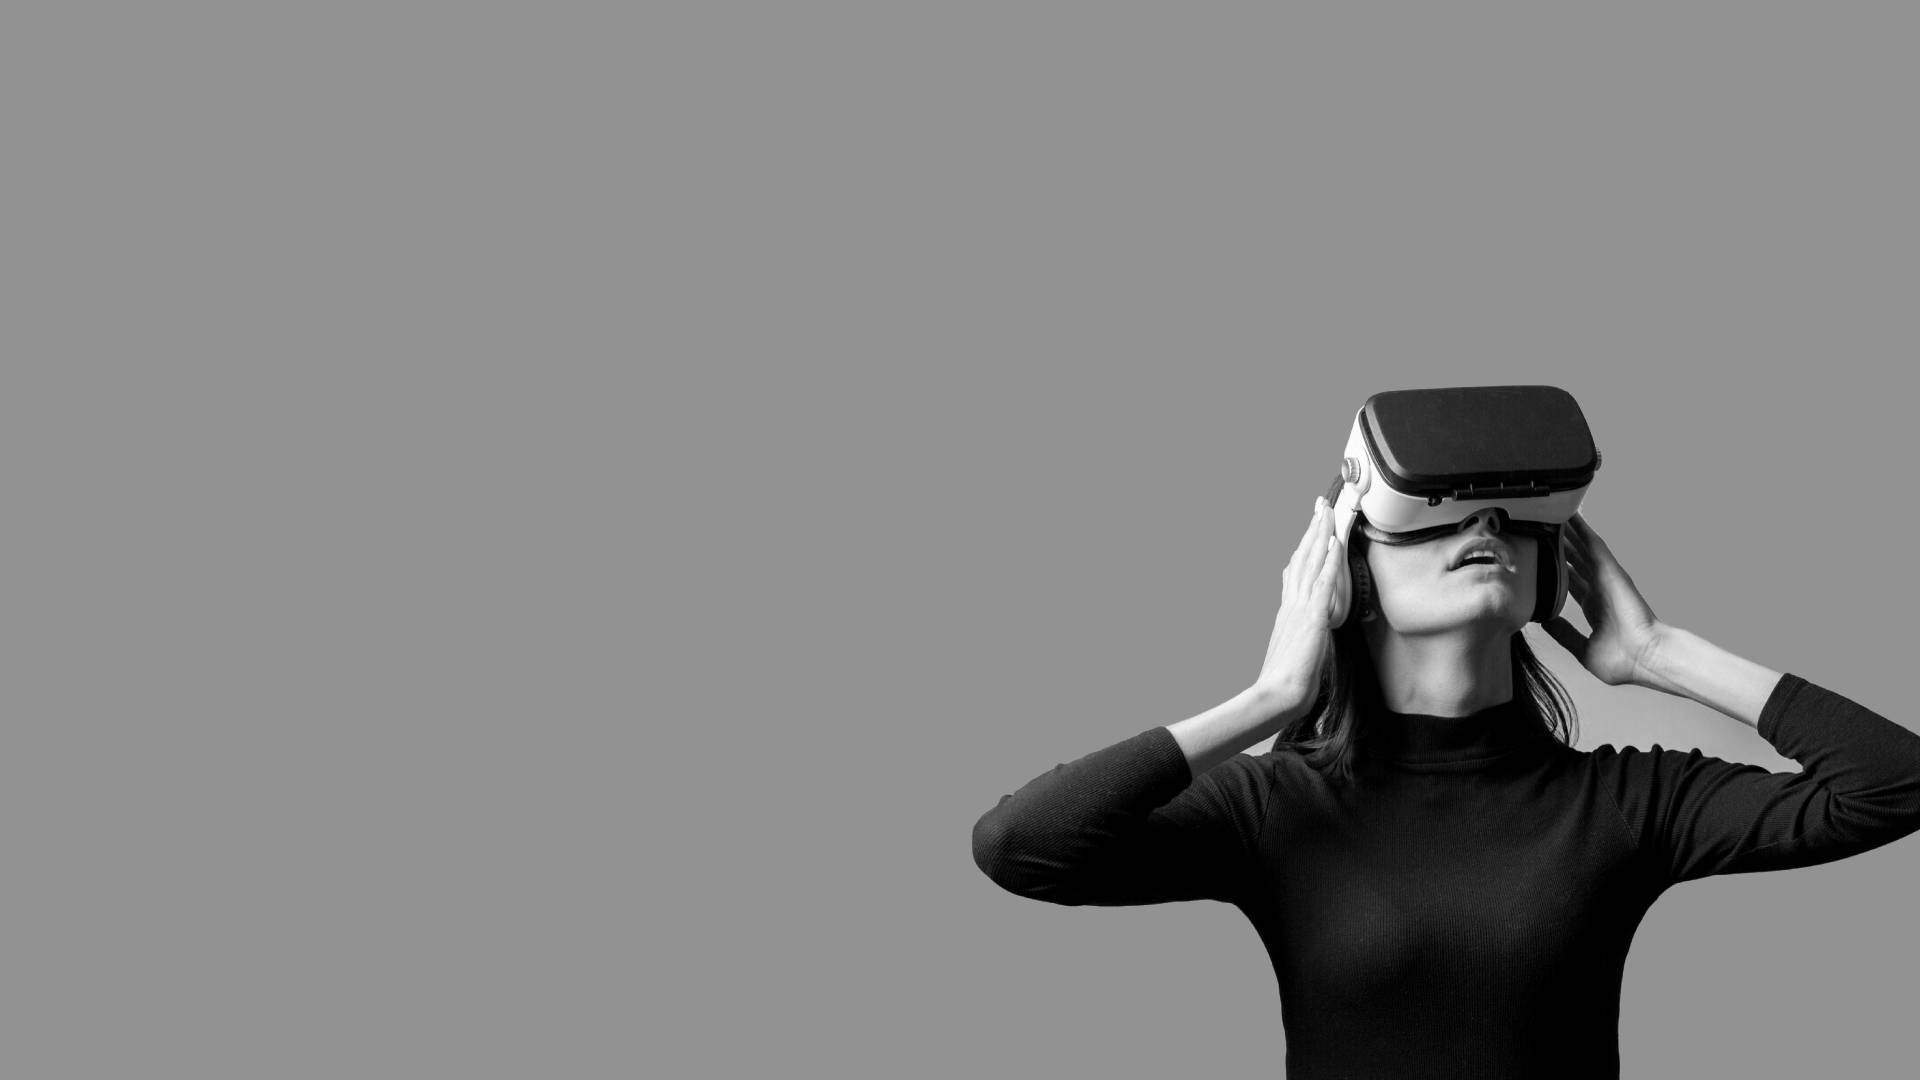
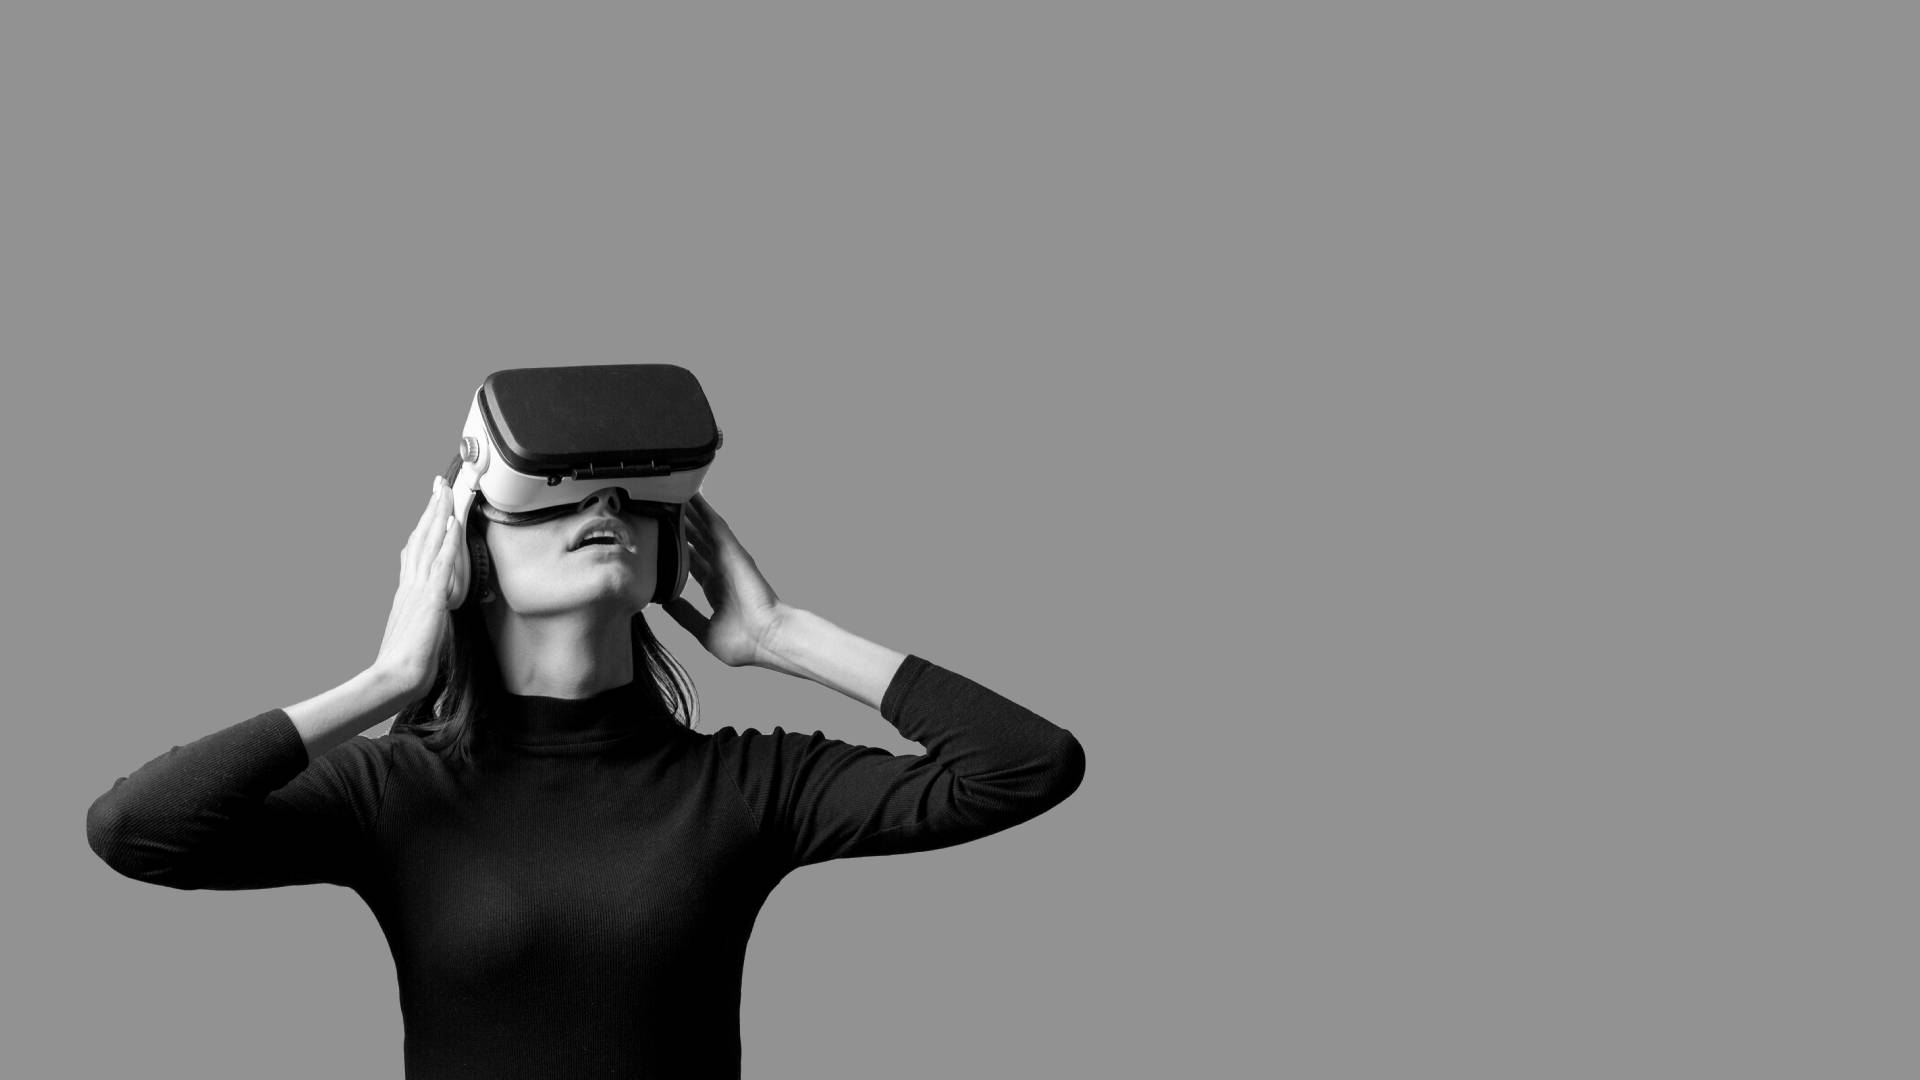
Ajustada pagina de login

diff --git a/src/views/HomeView.vue b/src/views/HomeView.vue
@@ -1,7 +1,28 @@
 <template>
   <div class="global-div"
     :style="{ backgroundImage: `url(${backgroundUrl})`, backgroundRepeat: 'no-repeat', backgroundPosition: 'center', backgroundSize: 'cover' }">
-    <div class="vh-100 d-flex flex-column justify-content-center align-items-center">
+
+    <div class="container-fluid" v-if="!isAuthenticated">
+      <div class="row d-flex align-items-center">
+        <div class="col-md-4"></div>
+        <div class="col-md-8 vh-100 d-flex align-items-center" style="background:white">
+          <div class="box">
+            <div class="p-5">
+                <img class="img-fluid mb-4" :src="logoUrl" />
+                <div class="d-block ms-2">
+                  <h5 class="text-left fw-bold">Virtual Reality Platform</h5>
+                  <p class="text-left mt-0"></p>
+                </div>
+              </div>
+              <p class="text-center description">Haga login con su cuenta Microsoft para comenzar:</p>
+              <button class="btn btn-primary w-50 mb-5" @click="login">Microsoft login</button>
+              <div class="mb-5"></div>
+          </div>
+        </div>
+      </div>
+    </div>
+
+    <div v-if="isAuthenticated" class="vh-100 d-flex flex-column justify-content-center align-items-center">
       <div class="login-div">
         <div class="card-body">
 
@@ -37,32 +58,6 @@
               </ul>
             </div>
           </div>
-
-          <div v-if="!isAuthenticated" class="login-container">
-
-            <div class="container">
-              <div class="row">
-                <div class="md-4" style="background:blue">
-                  
-                </div>
-                <div class="md-8">
-
-                </div>
-              </div>
-            </div>
-
-            <div class="d-flex flex-column justify-content-space-center align-items-center">
-              <img class="img-fluid mb-4" :src="logoUrl" />
-              <div class="d-block ms-2">
-                <h5 class="text-left fw-bold">Virtual Reality Platform</h5>
-                <p class="text-left mt-0"></p>
-              </div>
-            </div>
-            <hr class="divider mb-5">
-            <p class="text-center description">Haga login con su cuenta Microsoft para comenzar:</p>
-            <button class="btn btn-primary w-100" @click="login">Microsoft login</button>
-          </div>
-
         </div>
       </div>
     </div>

diff --git a/src/views/HomeViewFile.vue b/src/views/HomeViewFile.vue
@@ -143,7 +143,7 @@ export default {
         });
 
         if (response.status === 404) {
-          alert("No se encontró la carpeta 'models' en OneDrive. Por favor, cree una carpeta llamada 'models'.");
+          alert("No se encontró la carpeta 'models' en OneDrive. Por favor, cree una carpeta llamada 'models' y vuelta a intentarlo.");
         } else if (response.ok) {
           const data = await response.json();
           if (data.value.length === 0) {
